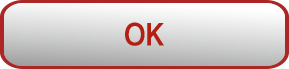
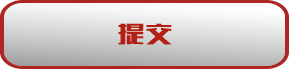
更改手机输入样式

Changed region(s): [[0.4048, 0.3188, 0.5917, 0.6667]]

diff --git a/public/res/cowin/css/style.less b/public/res/cowin/css/style.less
@@ -399,15 +399,16 @@ section img.arrow{
                 background-size: cover;
                 text-align: center;
                 .phone{
-                    width: 448/@base;
-                    height: 86/@base;
+                    width: 378/@base;
+                    height: 80/@base;
                     border: none;
                     border-radius: 20/@base;
                     text-align: center;
                     color: #b32013;
                     font-weight: bold;
-                    background: transparent;
-                    .font20;
+                    background: url(../images/input_bg.png) no-repeat center center;
+                    background-size: 100% 100%;
+                    .font14;
                     opacity: 0.8;
                 }
                 .tips{

diff --git a/public/res/cowin/css/style.css b/public/res/cowin/css/style.css
@@ -398,22 +398,23 @@ section img.arrow {
   text-align: center;
 }
 .bless form .popup .pannel .phone {
-  width: 4.97777778rem;
-  height: 0.95555556rem;
+  width: 4.2rem;
+  height: 0.88888889rem;
   border: none;
   border-radius: 0.22222222rem;
   text-align: center;
   color: #b32013;
   font-weight: bold;
-  background: transparent;
-  font-size: 20px;
+  background: url(../images/input_bg.png) no-repeat center center;
+  background-size: 100% 100%;
+  font-size: 14px;
   opacity: 0.8;
 }
 [data-dpr="2"] .bless form .popup .pannel .phone {
-  font-size: 40px;
+  font-size: 28px;
 }
 [data-dpr="3"] .bless form .popup .pannel .phone {
-  font-size: 60px;
+  font-size: 42px;
 }
 .bless form .popup .pannel .tips {
   width: 4.11111111rem;
